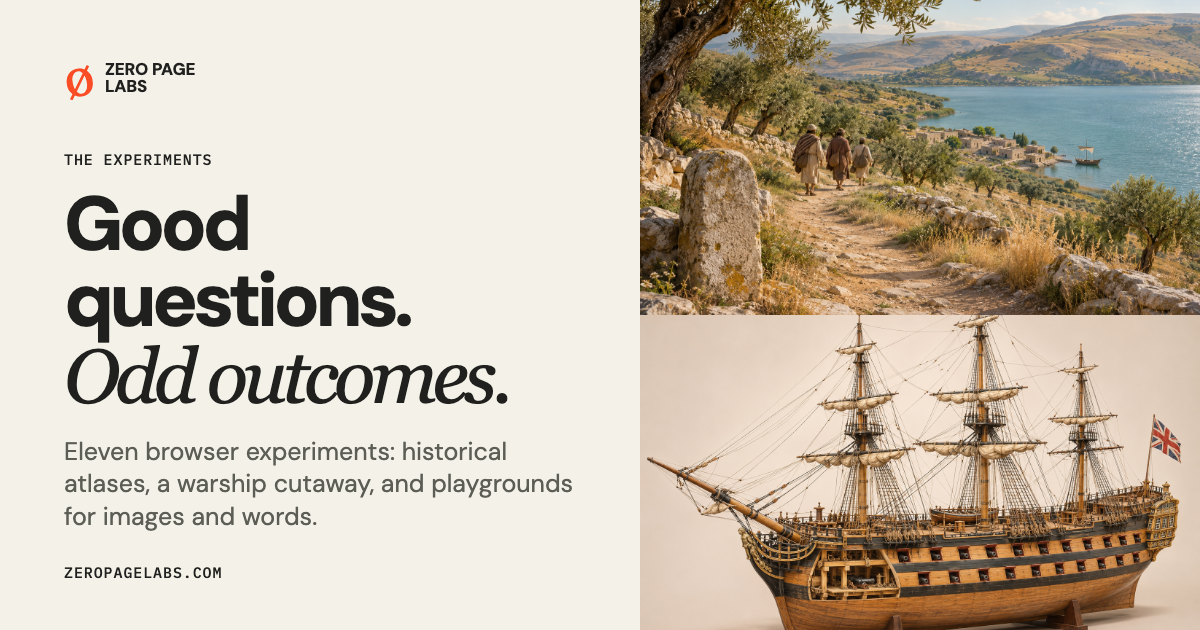
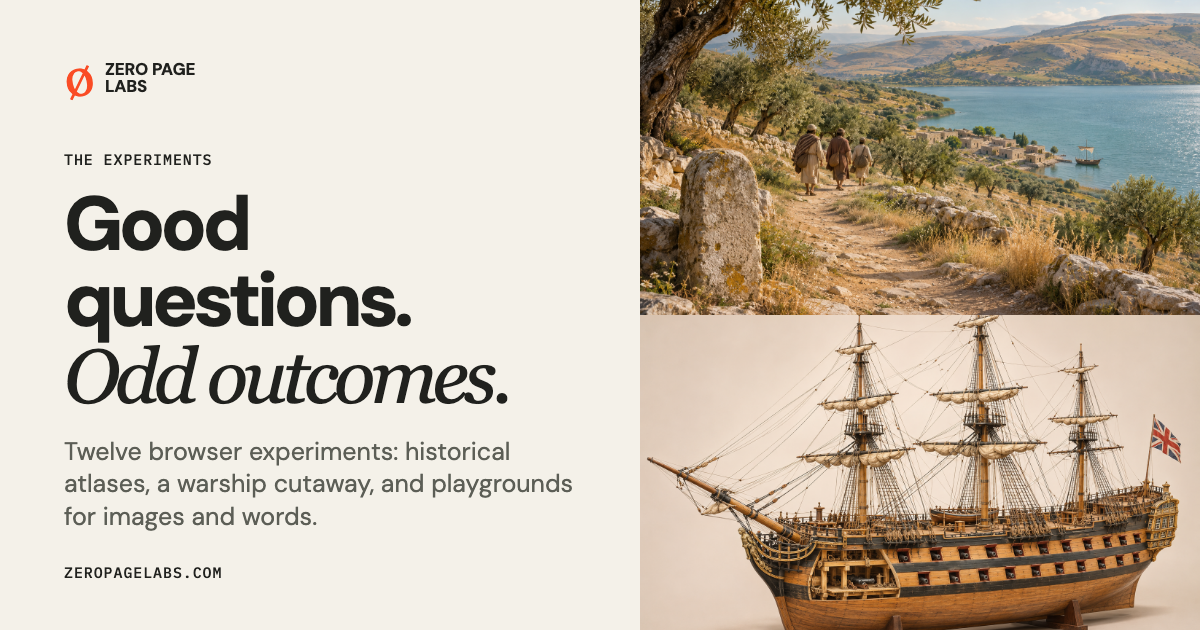
Add Map Monsters: one plate of sea monsters on maps, 1413-1820, in two views
Whale, walrus and sea-unicorn on maps and in books from Viladestes (1413)
to Scoresby (1820). "Illustrated" is an image-model redraw after the named
sources and says so; "From the sources" is the same plate built from
crops of public-domain scans, nothing redrawn. The hash picks the view.
Sources listed with links. Listed as an experiment with cover and share card.

Changed region(s): [[0.0308, 0.6937, 0.4317, 0.754]]

diff --git a/experiments/map-monsters/index.html b/experiments/map-monsters/index.html
@@ -1,0 +1,68 @@
+<!doctype html>
+<html lang="en">
+<head>
+  <meta charset="utf-8">
+  <meta name="viewport" content="width=device-width,initial-scale=1">
+  <meta name="theme-color" content="#1c1814">
+  <title>Map Monsters — Zero Page Labs</title>
+  <meta name="description" content="Whale, walrus and sea-unicorn on maps and in books from 1413 to 1820, as one plate seen two ways: redrawn, and cut from the real scans.">
+  <link rel="canonical" href="https://zeropagelabs.com/experiments/map-monsters/">
+  <link rel="icon" href="/assets/favicon.svg">
+  <link rel="stylesheet" href="map-monsters.css">
+  <script type="module" src="map-monsters.mjs"></script>
+</head>
+<body>
+<a class="skip" href="#plate">Skip to the plate</a>
+<header class="topbar">
+  <a href="/" class="brand"><span aria-hidden="true">ø</span> Zero Page Labs</a>
+  <a href="/experiments/">Experiments ↗</a>
+</header>
+
+<main class="mm">
+  <header class="title-row">
+    <div>
+      <p class="kicker">Plate VIII · 1413–1820</p>
+      <h1>Map Monsters</h1>
+    </div>
+    <p class="intro">Three animals the old mapmakers drew as monsters: the whale, the walrus and the narwhal, or sea-unicorn. Follow each down the plate and watch it settle into the animal over four centuries. See it two ways: redrawn, or cut straight from the maps and books.</p>
+  </header>
+
+  <div class="views" role="tablist" aria-label="Choose a view">
+    <button type="button" role="tab" id="tab-illustrated" aria-controls="view-illustrated" aria-selected="true">Illustrated</button>
+    <button type="button" role="tab" id="tab-sources" aria-controls="view-sources" aria-selected="false">From the sources</button>
+  </div>
+
+  <div id="plate">
+    <section class="view" id="view-illustrated" role="tabpanel" aria-labelledby="tab-illustrated">
+      <a class="plate" href="img/illustrated.webp" target="_blank" rel="noopener">
+        <img src="img/illustrated.webp" width="1086" height="1448" alt="Illustrated plate: whale, walrus and sea-unicorn in five rows from 1413 to 1820, each redrawn after a named map or book, with a red spindle labelled Monstrousness that peaks in 1539">
+      </a>
+      <p class="note"><b>Redrawn, not copied.</b> An image model drew this plate after the sources named in its captions. It follows their spirit, not their lines: the Ortelius walrus and narwhal, for example, look nothing like this on the real map. The Monstrousness spindle is an invention. Switch to <a href="#view-sources" data-view="sources">From the sources</a> to see the originals.</p>
+    </section>
+
+    <section class="view" id="view-sources" role="tabpanel" aria-labelledby="tab-sources" hidden>
+      <a class="plate" href="img/sources.webp" target="_blank" rel="noopener">
+        <img src="img/sources-1200.webp" srcset="img/sources-1200.webp 1200w, img/sources.webp 2400w" sizes="(max-width: 860px) 100vw, 820px" width="1200" height="1600" alt="The same plate built from details of public-domain scans: fourteen crops from maps and books from 1413 to 1820, each captioned with its source, a filled dot for a map and a ring for a book">
+      </a>
+      <p class="note"><b>Nothing redrawn.</b> Every picture is a detail cut from a public-domain scan of the source named under it. A filled dot means it was drawn on a map; a ring means it was printed in a book. Open the plate for the full-size version.</p>
+    </section>
+  </div>
+
+  <section class="sources" aria-labelledby="sources-title">
+    <h2 id="sources-title">The sources</h2>
+    <ol>
+      <li><b>Mecia de Viladestes, portolan chart, 1413.</b> A whaling scene in the North Atlantic. <a href="https://commons.wikimedia.org/wiki/File:Whaling_Cropped_from_1413_Portolan_chart_by_Mecia_de_Viladestes.jpg">Scan ↗</a></li>
+      <li><b>Martin Waldseemüller, Carta marina, 1516.</b> The walrus as an elephant: “Morsus animal ingens quantitate elephantis”. <a href="https://commons.wikimedia.org/wiki/File:Carta_marina_navigatoria_Portvgallen_navigationes,_atqve_tocius_cogniti_orbis_terre_marisqve_formam_natvram_sitvs_et_terminos_nostris_temporibvs_recognitos_et_ab_antiqvorum_traditione_differentes,_LOC_2016586433-2.jpg">Library of Congress scan ↗</a></li>
+      <li><b>Olaus Magnus, Carta marina, 1539.</b> The “Balena” attacked by an “Orcha”, the “Ros marus piscis” by Vardahus, and a horned head south of Iceland. <a href="https://commons.wikimedia.org/wiki/File:Carta_Marina.jpeg">Scan ↗</a></li>
+      <li><b>Abraham Ortelius, Islandia, 1590.</b> L, Steipereidur; N, Rostunger; A, Nahval. <a href="https://commons.wikimedia.org/wiki/File:Island_1590_Theatrum_Orbis_Terrarum_Ortelius.jpg">Scan of a 1983 facsimile ↗</a></li>
+      <li><b>Hessel Gerritsz, Histoire du pays nommé Spitsberghe, 1613.</b> Walrus and calf. <a href="https://commons.wikimedia.org/wiki/File:Hessel_Gerritsz_-_Walruses_on_Spitsbergen.jpg">Scan ↗</a></li>
+      <li><b>Thomas Edge, “Greneland”, in Purchas His Pilgrimes, 1625.</b> The whale vignette on the map’s border. <a href="https://commons.wikimedia.org/wiki/File:Kaart_van_Spitsbergen_van_Thomas_Edge,_1625_Greneland_(titel_op_object),_NG-1988-23.jpg">Rijksmuseum scan ↗</a></li>
+      <li><b>Ole Worm, Museum Wormianum, 1655.</b> “Unicornu marinum”: the narwhal and its skull, pp. 282–283. <a href="https://www.biodiversitylibrary.org/page/41522056">Biodiversity Heritage Library ↗</a></li>
+      <li><b>John Webber, “Sea Horses”, in Cook’s Voyage, 1784.</b> Detail, from the 1785 printing. <a href="https://commons.wikimedia.org/wiki/File:Sea_horses._Drawn_by_J._Webber._Engraved_by_E._Scott._The_figures_by_J._Heath._(London,_G._Nicol_and_T._Cadell,_1785)_(IA_dr_sea-horses-drawn-by-j-webber-engraved-by-e-scott-the-figures-by-j-hea-00884012).jpg">Scan ↗</a></li>
+      <li><b>William Scoresby, An Account of the Arctic Regions, 1820.</b> Plate XII, the common whale, and plate XV, the male narwhal. <a href="https://archive.org/details/accountofarcticr02scor/page/n602">Internet Archive ↗</a> · <a href="https://commons.wikimedia.org/wiki/File:An_account_of_the_Arctic_regions_with_a_history_and_description_of_the_northern_whale-fishery_(1820)_(14778424544).jpg">Plate XV ↗</a></li>
+    </ol>
+    <p class="small">The horned head on Olaus Magnus’s map carries no label, so calling it the sea-unicorn is our reading. “None found on a map before 1539” means we found none, not that none exists. All scans are public domain or CC0.</p>
+  </section>
+</main>
+</body>
+</html>

diff --git a/experiments/map-monsters/map-monsters.css b/experiments/map-monsters/map-monsters.css
@@ -1,0 +1,51 @@
+:root {
+  --ground: #1c1814;
+  --paper: #efe5cf;
+  --muted: #a89c86;
+  --rule: rgba(239, 229, 207, .18);
+  --red: #d2583a;
+  --serif: "Iowan Old Style", "Palatino Linotype", Palatino, Georgia, serif;
+  --mono: ui-monospace, "SF Mono", Menlo, Consolas, monospace;
+}
+* { box-sizing: border-box; }
+[hidden] { display: none !important; }
+html, body { margin: 0; }
+body { background: var(--ground); color: var(--paper); font: 16px/1.55 var(--serif); }
+a { color: #f0b48f; }
+img { display: block; max-width: 100%; height: auto; }
+.skip { position: absolute; left: -999px; }
+.skip:focus { left: 12px; top: 12px; z-index: 9; background: var(--paper); color: var(--ground); padding: 6px 10px; }
+
+.topbar { display: flex; justify-content: space-between; padding: 14px 24px; font: 12px/1 var(--mono); letter-spacing: .08em; text-transform: uppercase; }
+.topbar a { color: var(--muted); text-decoration: none; }
+.topbar a:hover { color: var(--paper); }
+
+.mm { max-width: 880px; margin: 0 auto; padding: 8px 24px 64px; }
+.title-row { border-bottom: 1px solid var(--rule); padding-bottom: 14px; }
+.kicker { margin: 0 0 4px; font: 12px/1 var(--mono); letter-spacing: .12em; text-transform: uppercase; color: var(--red); }
+h1 { margin: 0; font-size: clamp(40px, 7vw, 68px); font-weight: 500; line-height: 1.05; }
+.intro { margin: 12px 0 0; font-size: 18px; max-width: 680px; }
+
+.views { display: inline-flex; margin: 22px 0 16px; border: 1px solid var(--rule); border-radius: 999px; padding: 3px; }
+.views button { -webkit-tap-highlight-color: transparent; font: 13px/1 var(--mono); letter-spacing: .06em; text-transform: uppercase; color: var(--muted); background: none; border: 0; border-radius: 999px; padding: 10px 16px; cursor: pointer; }
+.views button[aria-selected="true"] { background: var(--paper); color: var(--ground); }
+.views button:focus-visible { outline: 2px solid var(--red); outline-offset: 2px; }
+
+.plate { display: block; max-width: 820px; margin: 0 auto; box-shadow: 0 10px 40px rgba(0, 0, 0, .5); }
+.note { max-width: 680px; margin: 16px auto 0; color: var(--muted); }
+.note b { color: var(--paper); font-weight: 600; }
+
+.sources { margin-top: 44px; border-top: 1px solid var(--rule); padding-top: 18px; }
+h2 { margin: 0 0 10px; font-size: 24px; font-weight: 500; }
+.sources ol { padding-left: 22px; margin: 0; }
+.sources li { margin: 0 0 8px; }
+.sources b { font-weight: 600; }
+.small { font-size: 14px; color: var(--muted); }
+
+@media (max-width: 560px) {
+  .mm { padding: 4px 14px 48px; }
+  .topbar { padding: 12px 14px; }
+  .intro { font-size: 16px; }
+  .views { display: flex; }
+  .views button { flex: 1; padding: 10px 8px; }
+}
